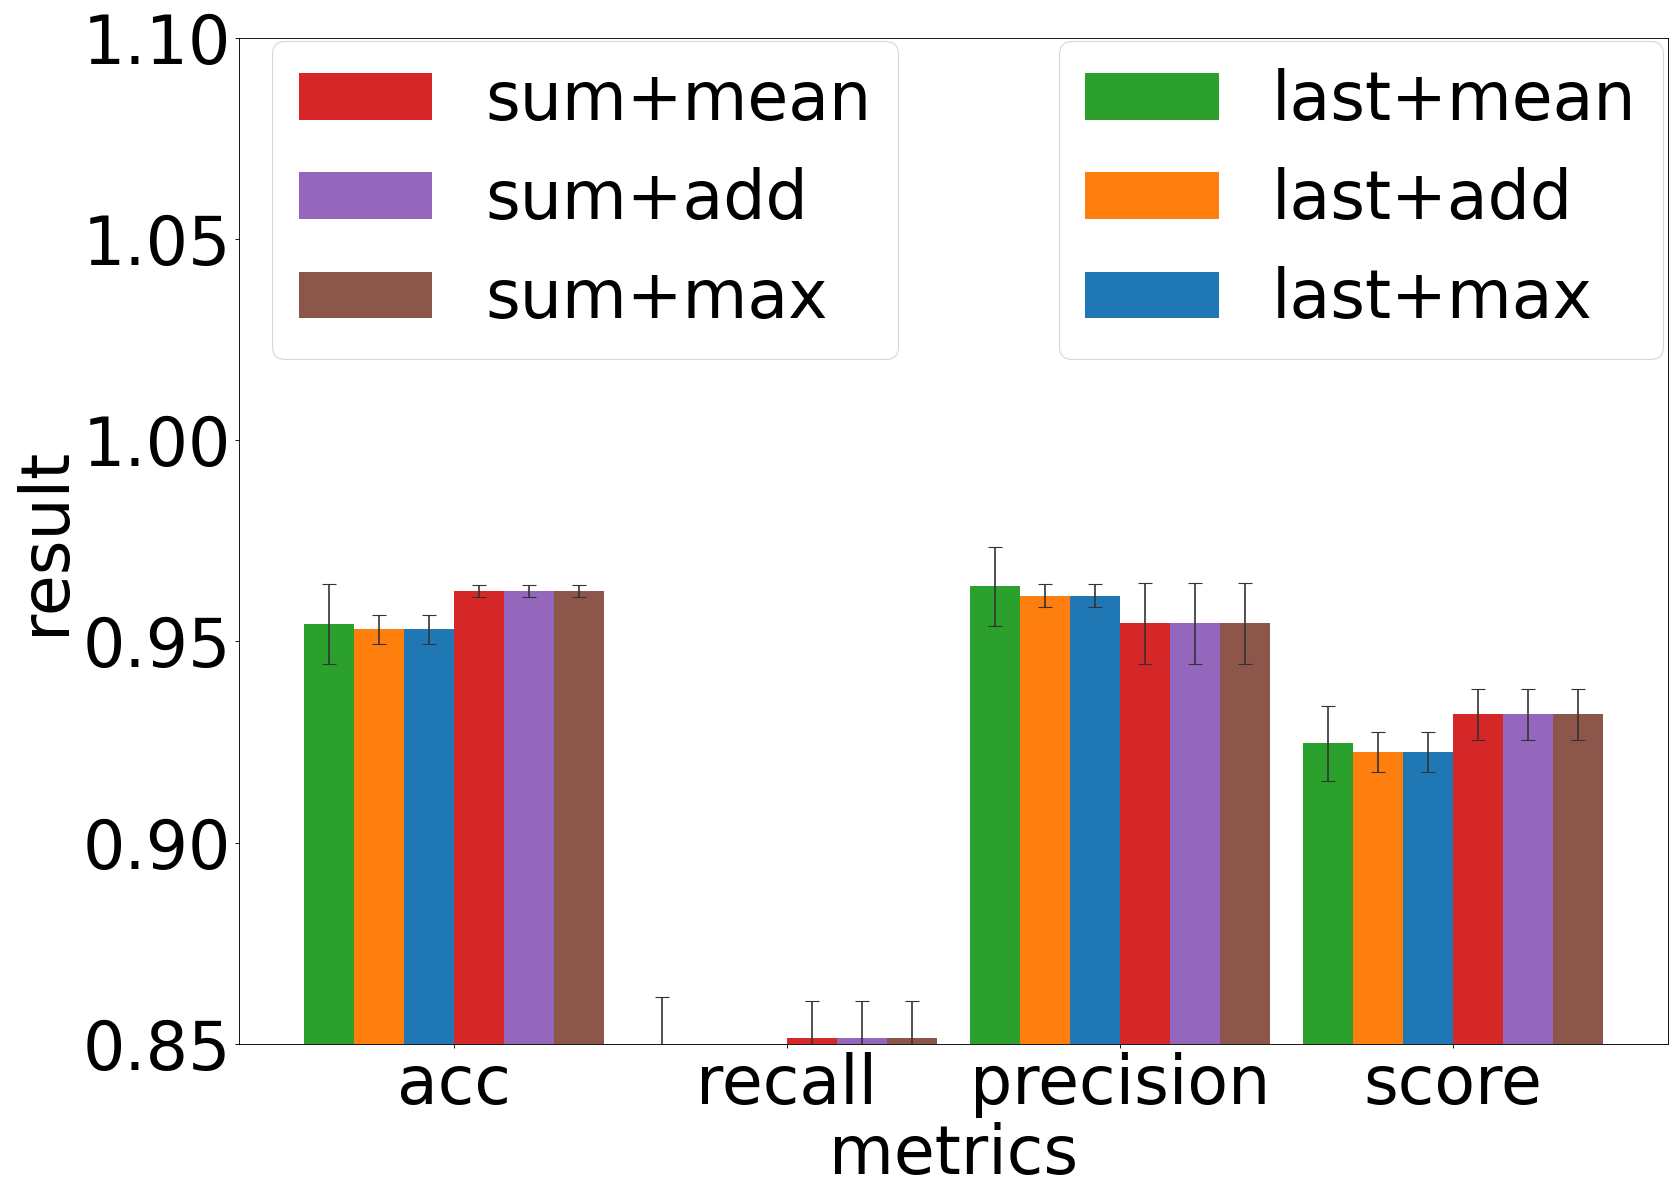
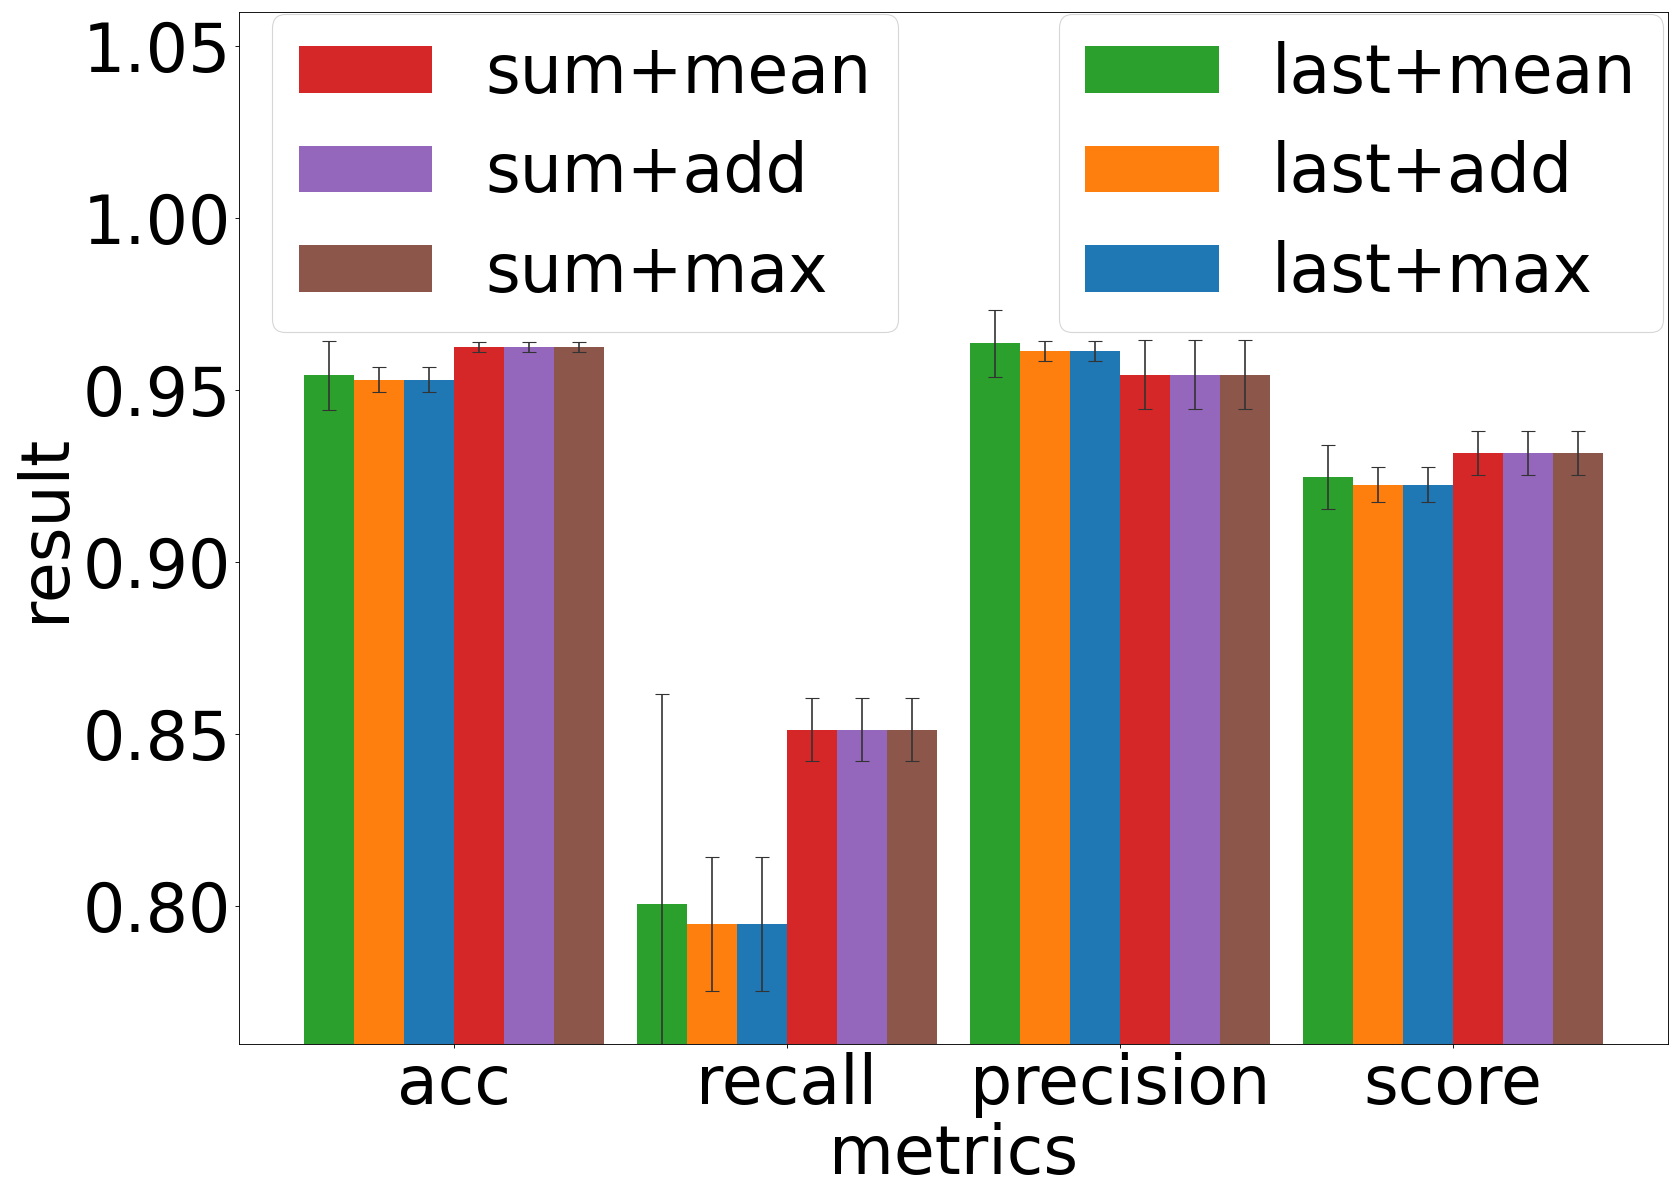
adjust cad split2 vary jk+pooling

diff --git a/plot_bar.py b/plot_bar.py
@@ -111,9 +111,12 @@ else:
 plt.xticks(x_locs, labels=xs_str, fontsize=ticks_fontsize, rotation=0)
 plt.yticks(fontsize=ticks_fontsize)
 # plt.ylim(90,100)
-plt.ylim(0.85,1.10)
 if args.datafile == 'gcn_split1_vary_jk_pooling.txt':
     plt.ylim(0.91,1.06)
+elif args.datafile == 'cad_split2_vary_jk_pooling.txt':
+    plt.ylim(0.76,1.06)
+else:
+    plt.ylim(0.85,1.10)
 figure_title = args.datafile.split('.')[0]
 # plt.title(f'{figure_title}', fontsize=fontsize)
 plt.xlabel(f'metrics', fontsize=fontsize)
